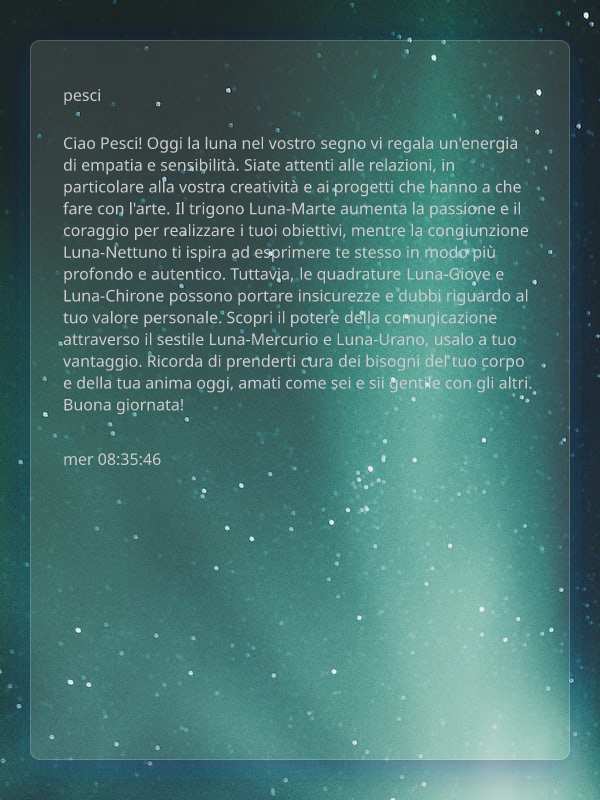
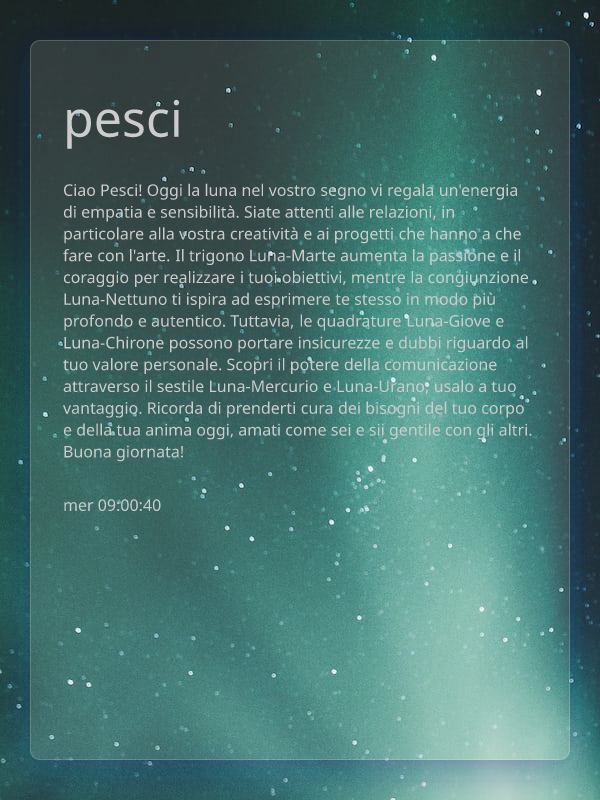
handle image cron

Changed region(s): [[0.09, 0.0938, 0.9, 0.5938], [0.09, 0.625, 0.27, 0.6562]]

diff --git a/src/libs/generateOg.js b/src/libs/generateOg.js
@@ -47,8 +47,10 @@ export async function generateOgImg(sign) {
             flexDirection: "column",
           }}
         >
-          <h1>{sign.sign}</h1>
-          <p>{sign.horoscope}</p>
+          <h1 style={{
+            fontSize:'50px'
+          }} >{sign.sign}</h1>
+          <p >{sign.horoscope}</p>
           <p>{timestamp}</p>
         </div>
       </div>
